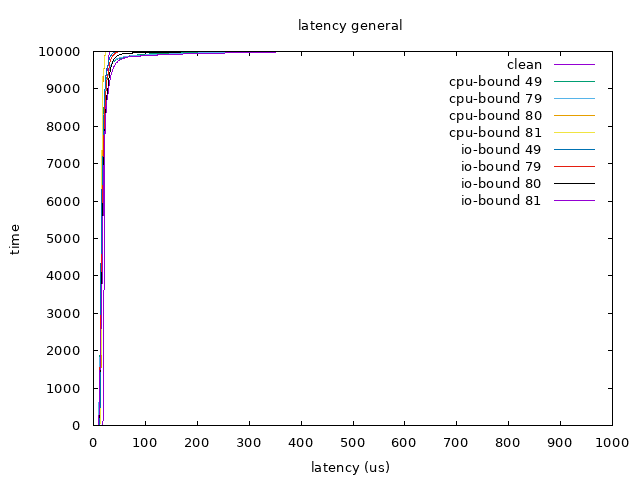
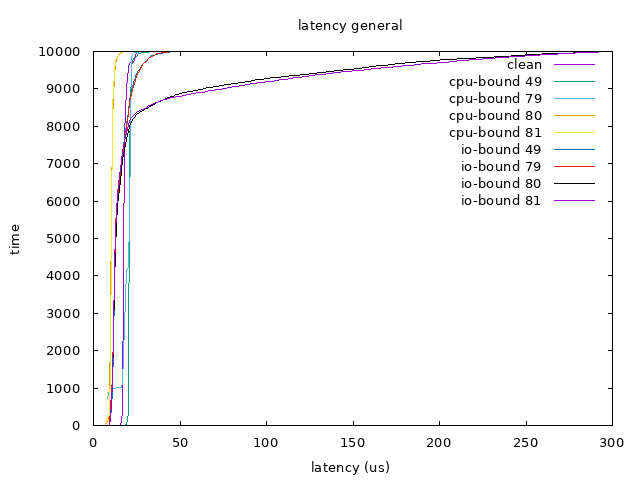
Add super_run2.c for stress io to make stress more

diff --git a/general_vs_preempt_rt/super_run2.c b/general_vs_preempt_rt/super_run2.c
@@ -1,0 +1,118 @@
+#include <stdio.h>
+#include <stdlib.h>
+#include <time.h>
+#include <sched.h>
+#include <sys/mman.h>
+#include <string.h>
+#include <unistd.h>
+#include <sys/types.h>
+
+#define MY_PRIORITY (80)
+#define MAX_SAFE_STACK (8*1024)
+#define NSEC_PER_SEC (1000000000)
+#define LOOP_TIME (10000)
+#define INTERVAL (3000000)
+
+int ctr_err = 0;
+
+void test_work(void *test_data);
+
+long get_work_time(void (*test_work)(void *), void *test_data, struct timespec *ts, int *ctr, struct timespec *sum, long *min, long *max)
+{
+    struct timespec te;
+    struct timespec diff;
+    test_work(test_data);
+    clock_gettime(CLOCK_MONOTONIC, &te);
+    diff.tv_sec = te.tv_sec - ts->tv_sec;
+    diff.tv_nsec = te.tv_nsec - ts->tv_nsec;
+    sum->tv_sec += diff.tv_sec;
+    sum->tv_nsec += diff.tv_nsec;
+    ++*ctr;
+    if (sum->tv_nsec >= NSEC_PER_SEC)
+    {
+        sum->tv_nsec -= NSEC_PER_SEC;
+	    sum->tv_sec += 1;
+    }
+    else if (sum->tv_nsec < 0)
+    {
+        sum->tv_nsec += NSEC_PER_SEC;
+	    sum->tv_sec -= 1;
+    }
+
+    long nsec = diff.tv_sec * NSEC_PER_SEC + diff.tv_nsec;
+    // if (nsec >= INTERVAL)
+    // {
+    //     --*ctr;
+    //     ++ctr_err;
+    //     return nsec;
+    // }
+
+    if (*min > nsec)
+        *min = nsec;
+    if (*max < nsec)
+        *max = nsec;
+
+    printf("%d %ld\n", *ctr, nsec / 1000);
+    return nsec;
+}
+
+void stack_prefault(void)
+{
+    unsigned char dummy[MAX_SAFE_STACK];
+    memset(dummy, 0, MAX_SAFE_STACK);
+    return;
+}
+
+int main(int argc, char *argv[])
+{
+    struct timespec t;
+    struct timespec sum = {0, 0};
+    long avg = 0;
+    long min = __LONG_MAX__;
+    long max = 0x8000000000000000;
+    int ctr = 0;
+    struct sched_param param;
+    int interval = INTERVAL;
+    long nsec = 0;
+    param.sched_priority = MY_PRIORITY;
+
+    if (sched_setscheduler(0, SCHED_FIFO, &param) == -1)
+    {
+        perror("sched_setscheduler failed");
+    }
+
+    if (mlockall(MCL_CURRENT|MCL_FUTURE) == -1)
+    {
+        perror("mlockall failed");
+    }
+
+    stack_prefault();
+    clock_gettime(CLOCK_MONOTONIC, &t);
+
+    fork();
+    fork();
+    fork();
+
+    t.tv_sec++;
+    // while (1)
+    // for (int i = 0; i < LOOP_TIME; ++i)
+    while(ctr < LOOP_TIME)
+    {
+        clock_nanosleep(CLOCK_MONOTONIC, TIMER_ABSTIME, &t, NULL);
+        nsec = get_work_time(test_work, NULL, &t, &ctr, &sum, &min, &max);
+        t.tv_nsec += interval * (1 + nsec / interval);
+        while (t.tv_nsec >= NSEC_PER_SEC)
+        {
+            t.tv_nsec -= NSEC_PER_SEC;
+            t.tv_sec++;
+        }
+    }
+
+    avg = (sum.tv_sec * NSEC_PER_SEC + sum.tv_nsec) / ctr;
+    printf("# sum: %ld\n", avg / 1000);
+    printf("# min: %ld\n", min / 1000);
+    printf("# max: %ld\n", max / 1000);
+    printf("# err cnt: %d\n", ctr_err);
+
+    return 0;
+}
